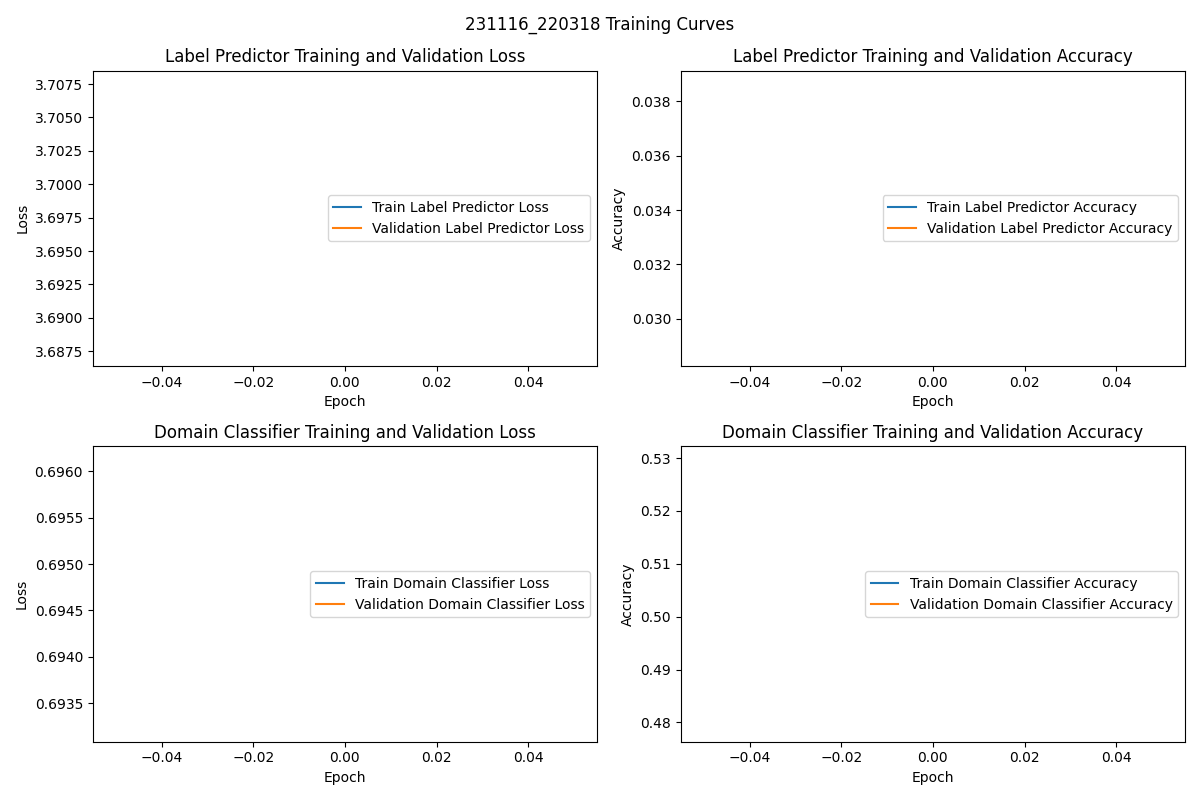
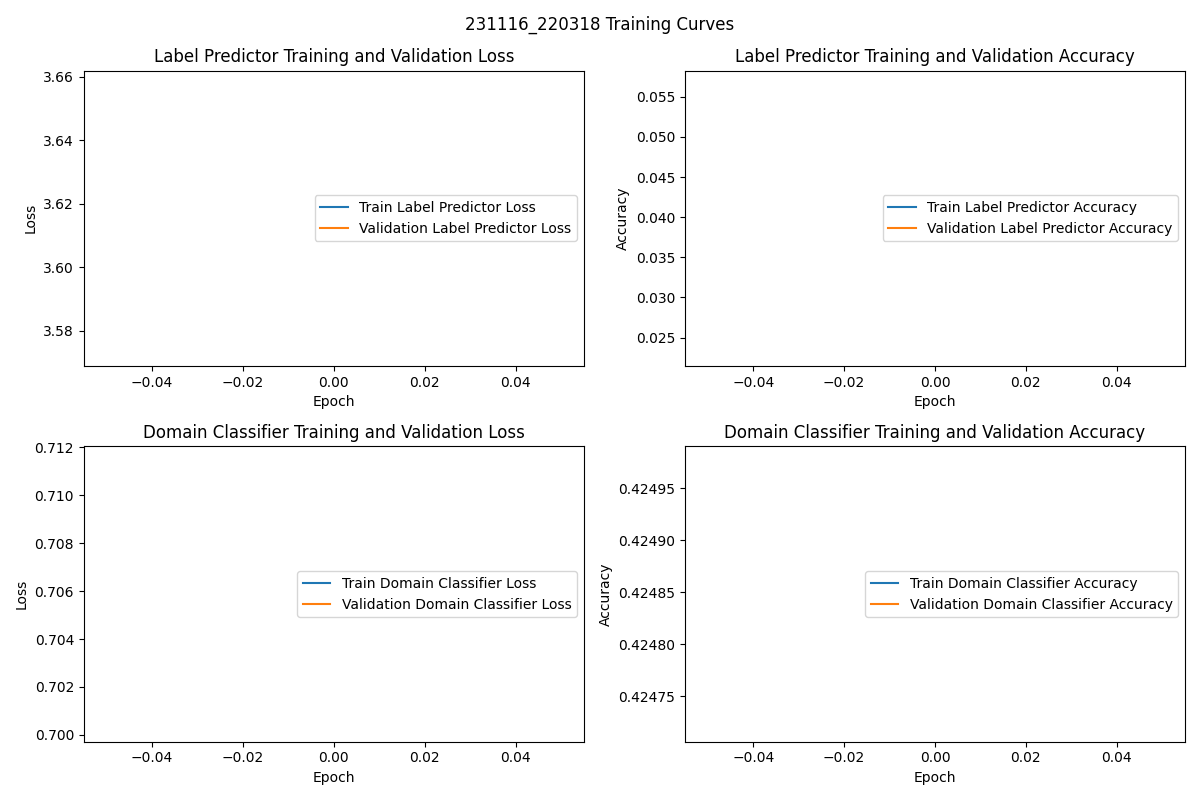
fix BUG of change layer name

diff --git a/transfer_learning/DANN/DANN.py b/transfer_learning/DANN/DANN.py
@@ -136,13 +136,14 @@ class DANNModel:
         # Shared feature extraction layers
         x = layers.Dense(8, activation='relu', name='feature_extractor_1')(input_data)
         x = layers.Dense(16, activation='relu', name='feature_extractor_2')(x)
+        x = layers.Dense(32, activation='relu', name='feature_extractor_3')(x)
 
         return x
 
     def build_label_predictor(self, feature_extractor):
         # Label predictor layers
-        x = layers.Dense(32, activation='relu', name='label_predictor_1')(feature_extractor)
-        label_predictor_output = layers.Dense(self.num_classes, activation='softmax', name='label_predictor_output')(x)
+        # x = layers.Dense(32, activation='relu', name='label_predictor_1')(feature_extractor)
+        label_predictor_output = layers.Dense(self.num_classes, activation='softmax', name='label_predictor_output')(feature_extractor)
 
         return label_predictor_output
 
@@ -159,16 +160,16 @@ class DANNModel:
         plt.figure(figsize=(12, 8))
         
         plt.subplot(2, 2, 1)
-        plt.plot(history.history['label_predictor_2_loss'], label='Train Label Predictor Loss')
-        plt.plot(history.history['val_label_predictor_2_loss'], label='Validation Label Predictor Loss')
+        plt.plot(history.history['label_predictor_output_loss'], label='Train Label Predictor Loss')
+        plt.plot(history.history['val_label_predictor_output_loss'], label='Validation Label Predictor Loss')
         plt.title('Label Predictor Training and Validation Loss')
         plt.xlabel('Epoch')
         plt.ylabel('Loss')
         plt.legend()
 
         plt.subplot(2, 2, 2)
-        plt.plot(history.history['label_predictor_2_accuracy'], label='Train Label Predictor Accuracy')
-        plt.plot(history.history['val_label_predictor_2_accuracy'], label='Validation Label Predictor Accuracy')
+        plt.plot(history.history['label_predictor_output_accuracy'], label='Train Label Predictor Accuracy')
+        plt.plot(history.history['val_label_predictor_output_accuracy'], label='Validation Label Predictor Accuracy')
         plt.title('Label Predictor Training and Validation Accuracy')
         plt.xlabel('Epoch')
         plt.ylabel('Accuracy')
@@ -176,16 +177,16 @@ class DANNModel:
 
         # Plot training and validation loss for Domain Classifier
         plt.subplot(2, 2, 3)
-        plt.plot(history.history['domain_classifier_2_loss'], label='Train Domain Classifier Loss')
-        plt.plot(history.history['val_domain_classifier_2_loss'], label='Validation Domain Classifier Loss')
+        plt.plot(history.history['domain_classifier_output_loss'], label='Train Domain Classifier Loss')
+        plt.plot(history.history['val_domain_classifier_output_loss'], label='Validation Domain Classifier Loss')
         plt.title('Domain Classifier Training and Validation Loss')
         plt.xlabel('Epoch')
         plt.ylabel('Loss')
         plt.legend()
 
         plt.subplot(2, 2, 4)
-        plt.plot(history.history['domain_classifier_2_accuracy'], label='Train Domain Classifier Accuracy')
-        plt.plot(history.history['val_domain_classifier_2_accuracy'], label='Validation Domain Classifier Accuracy')
+        plt.plot(history.history['domain_classifier_output_accuracy'], label='Train Domain Classifier Accuracy')
+        plt.plot(history.history['val_domain_classifier_output_accuracy'], label='Validation Domain Classifier Accuracy')
         plt.title('Domain Classifier Training and Validation Accuracy')
         plt.xlabel('Epoch')
         plt.ylabel('Accuracy')
